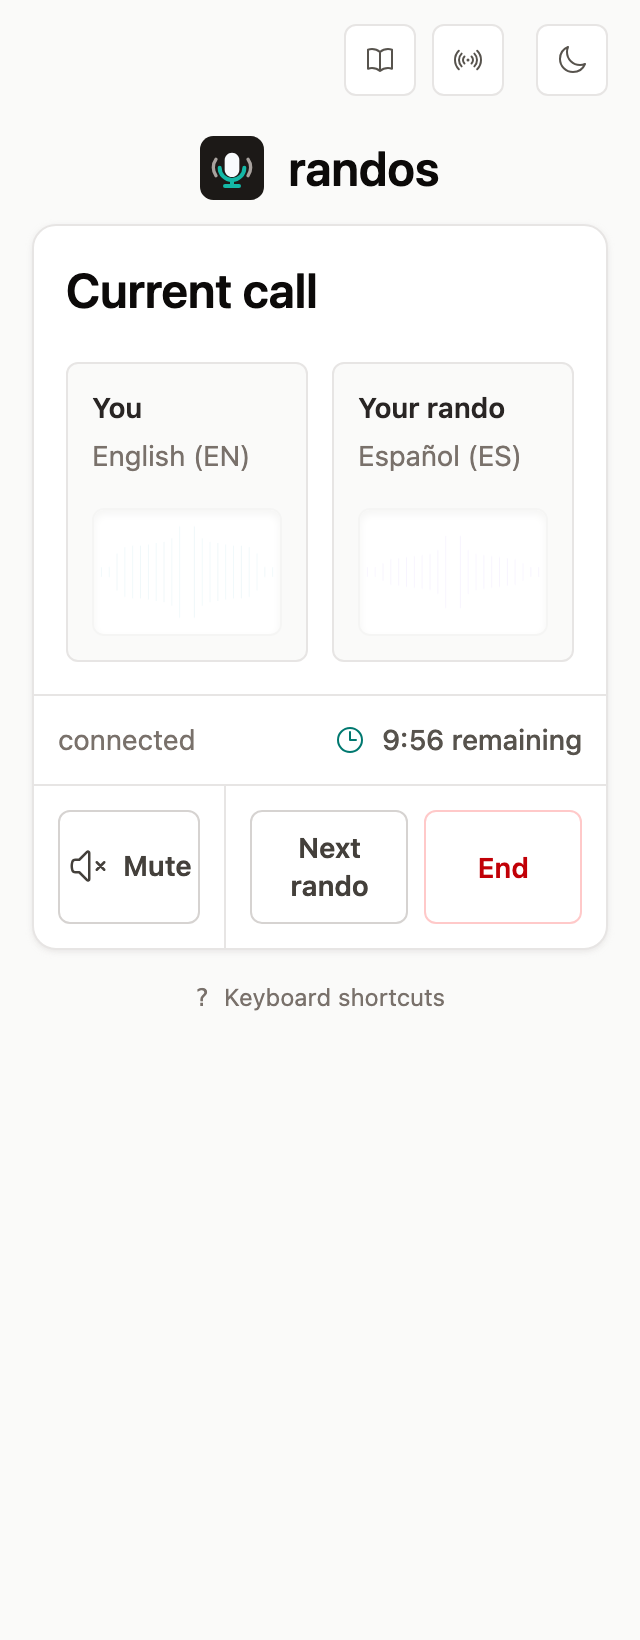
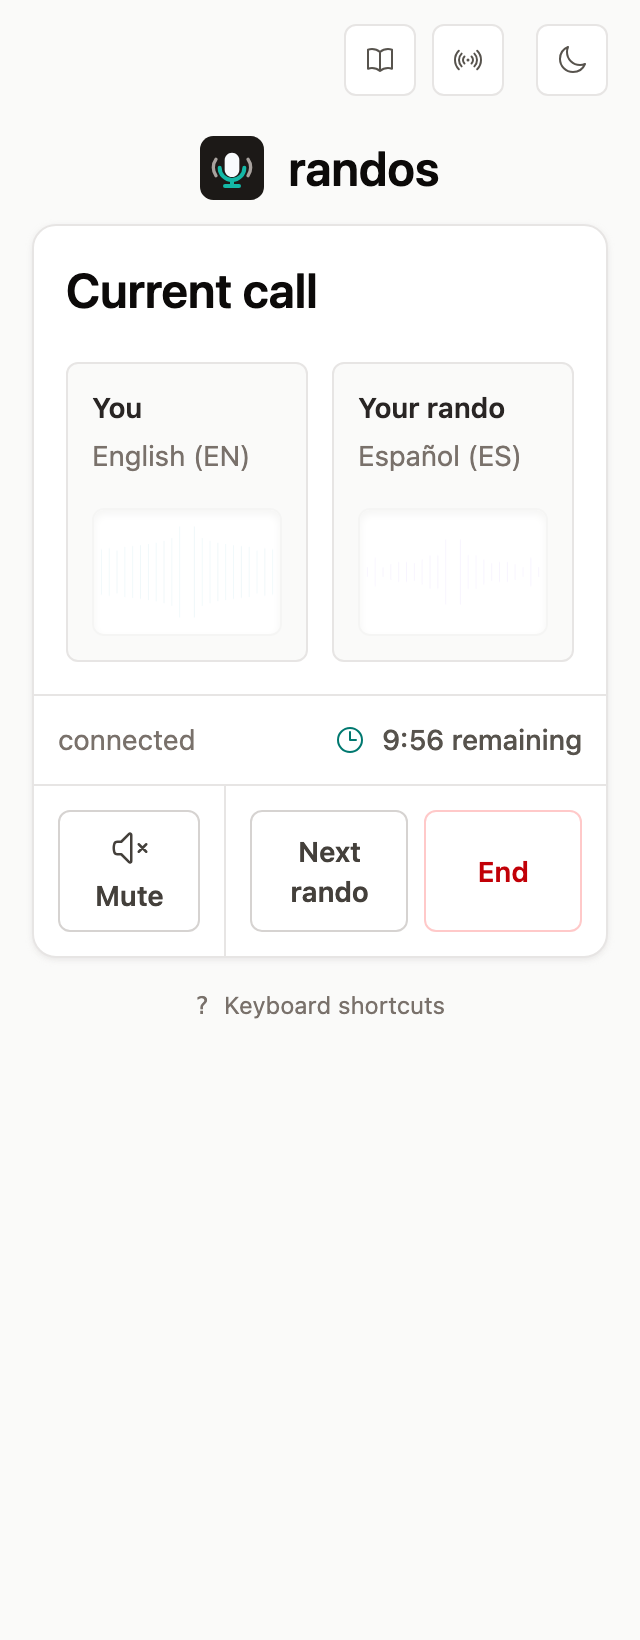
Prepare v0.11.1 maintenance release

Changed region(s): [[0.3125, 0.4976, 0.9062, 0.622], [0.0938, 0.4976, 0.3125, 0.5909]]

diff --git a/assets/css/app.css b/assets/css/app.css
@@ -173,6 +173,16 @@
   grid-template-columns: repeat(3, minmax(0, 1fr));
 }
 #conversation-card[data-ui-state="in_call"] #mute-button { height: 100%; }
+#conversation-card[data-ui-state="in_call"] :is(#mute-button, #next-rando-button, #end-call-button) {
+  min-width: 0;
+  overflow-wrap: anywhere;
+}
+@media (max-width: 639px) {
+  #conversation-card[data-ui-state="in_call"] #mute-button {
+    flex-direction: column;
+    gap: .25rem;
+  }
+}
 #conversation-card[data-ui-state="connecting"] {
   max-width: 35rem;
   grid-template-columns: repeat(2, minmax(0, 1fr));

diff --git a/docs/releases/v0.11.1-readiness.md b/docs/releases/v0.11.1-readiness.md
@@ -1,0 +1,51 @@
+# v0.11.1 release qualification
+
+The owner authorized v0.11.1 after reviewing the restrained mobile UI pass.
+Preparation is in progress; publication evidence will be recorded below.
+
+## Scope
+
+The delta from v0.11.0 includes mobile call presentation, the renderer's
+pulldown-cmark 0.13.6 advisory fix, TUI runtime dependency updates and isolated
+development-model/tooling maintenance. The model comparisons and retained
+COMET-compatible setuptools pin are recorded under
+[roadmap maintenance](../architecture/refactor_plan.md#deferred-decisions-and-maintenance).
+There are no new translated message keys, protocol obligations, call timers,
+media processors or privacy claims. Existing DSP/ABI/relay-policy evidence
+remains applicable.
+
+## Focused review
+
+The independent release advisor found a mobile label-overflow risk and one
+stale ringbuf version in the native README. A real-call experiment confirmed
+Mute/Unmute text escaping phone-width controls in multiple languages,
+including English Unmute at 320 px. The release adds a bounded wrapping fix
+and a regression check of text bounds, across all 20 locales, both mute
+states, light/dark themes and 320/390/1200 px widths. No translation model
+run or hand-filled catalog was needed.
+
+| Candidate | Decision | Reason |
+| --- | --- | --- |
+| Call/media policy owners | Leave | No ownership, timing or protocol change |
+| Shared waveform/media components | Leave | Existing seam remains useful |
+| Localized control regression | Merge | Browser smoke must check text inside controls, not just page overflow |
+| Renderer/model evidence | Link | Preserve provenance and comparisons in their authoritative guides |
+| Broad refactor | Leave | No demonstrated release benefit |
+
+README, development and self-hosting prose need no updates: installation,
+configuration, public controls and call semantics are unchanged. README
+screenshots are refreshed. The native dependency table now matches ringbuf 0.6.
+
+## Qualification
+
+- Local `just precommit` passed before the candidate commit.
+- All 240 real-call localized control cases passed after the wrapping fix.
+- `just screenshots` passed, including mobile control fit and exact physical
+  terminal redraw after dismissing the multilingual picker.
+- Independent follow-up review approved qualification; its suggested explicit
+  all-three-controls assertion is included in the regression test.
+- Prior TUI locale and DSP/ABI qualification is reused for unchanged UI,
+  translation catalogs and processor code; no new model run is necessary.
+
+Pending post-commit checks, native CI, clean-checkout packaging,
+production-image inspection, deployment, public archives and Homebrew.

diff --git a/clients/tui/native/README.md b/clients/tui/native/README.md
@@ -189,7 +189,7 @@ Each one must be justified here (purpose, license, whether it pulls in C);
 | --- | --- | --- | --- |
 | `cpal` 0.18 | Mic and speaker I/O | Apache-2.0 | Links the OS audio APIs (CoreAudio via `objc2`; ALSA via `alsa-sys` on Linux, which needs alsa-lib headers to build) |
 | `opus` 0.4 (+ `opusic-sys`) | Opus encode/decode, the codec browsers offer by default | MIT/Apache-2.0; libopus BSD-3-Clause | Yes: `opusic-sys` builds the reference libopus from bundled source and links it statically. Needs `cmake` at build time (pinned in `mise.toml`) |
-| `ringbuf` 0.5 | Lock-free SPSC rings between the real-time callbacks and the worker | MIT/Apache-2.0 | No |
+| `ringbuf` 0.6 | Lock-free SPSC rings between the real-time callbacks and the worker | MIT/Apache-2.0 | No |
 | `str0m` 0.24 (+ `str0m-proto`, `str0m-rust-crypto`, `is`) | WebRTC: ICE (`is`, **a patched copy in `vendor/is`**: a 4 s peer-request window instead of 15 s, so a dead path is noticed in ~4 s; `vendor/README.md`), DTLS, SRTP, RTP, SDP. Sans-IO (no threads, async, or callbacks), so the call is one plain loop we own. Built with `--no-default-features --features rust-crypto` | MIT/Apache-2.0 | **Yes, via AWS-LC** (corrected 2026-10-20): `rust-crypto` avoids OpenSSL, but `str0m-rust-crypto` turns on `dimpl`'s `rcgen` feature (DTLS certificate generation), which requires `aws-lc-rs`, so `aws-lc-sys` builds AWS-LC (C, with CMake) statically. Apache-2.0/ISC; passes `cargo deny`. Avoiding it needs an upstream change (rcgen on a RustCrypto backend) |
 | `serde` 1, `serde_json` 1 | The Port's JSON messages (the TUI side already uses Jason) | MIT/Apache-2.0 | No |
 | `rubato` 5 | Sample-rate conversion between a device's rate (e.g. 44.1 kHz Bluetooth) and Opus's 48 kHz; pulls in `audioadapter`, `realfft`/`rustfft`, `windowfunctions` | MIT/Apache-2.0 (deps MIT, Apache, Zlib) | No |

diff --git a/docs/releases/v0.11.1.md b/docs/releases/v0.11.1.md
@@ -1,0 +1,25 @@
+# randos v0.11.1
+
+A maintenance release with a more compact mobile call screen and updated
+terminal-client dependencies.
+
+- On phones, smaller branding and fewer repeated progress labels bring the
+  conversation and its controls higher on the screen. Both voices appear side
+  by side, with Mute, Next rando and End in one row.
+- Connection presentation is simpler, and End has clearer contrast in dark
+  mode. Long translated call-control labels wrap within their buttons,
+  including when switching between Mute and Unmute.
+- The terminal renderer updates pulldown-cmark to 0.13.6 for
+  RUSTSEC-2026-0433, while retaining randos' physical-redraw patch.
+- Terminal-client dependencies include ringbuf 0.6, realfft 3.5.1 and
+  Slipstream 1.3.0. Development and evaluation dependencies are also refreshed.
+
+Call timing, invitations, language matching and the participant protocol are
+unchanged. Voice masking stays local and off by default, with no new voice
+processors or models in the product.
+
+## Installation
+
+Run `brew upgrade wasichu/randos/randos`, or unpack the macOS arm64 or Linux
+x86_64 archive and run `bin/randos`. Existing settings remain compatible.
+The website update is deployed separately from the terminal archives.

diff --git a/docs/architecture/refactor_plan.md b/docs/architecture/refactor_plan.md
@@ -1,5 +1,12 @@
 # randos — current architecture and roadmap
 
+v0.11.1 preparation on 2026-11-06: the owner authorized a maintenance release.
+The independent packaging review prompted translated active-call text-bound
+checks and a bounded mobile label-wrap fix; no new strings, protocol or DSP
+changes. Versioned notes and qualification are tracked in
+[v0.11.1 readiness](../releases/v0.11.1-readiness.md). Existing model comparisons
+and unchanged media/privacy ownership remain applicable; defer broad refactors.
+
 Verified mobile call presentation on 2026-11-06 with `just precommit`,
 `just smoke`, `just tui-smoke` and `just screenshots`. The first UI refinement
 keeps the existing visual identity and server policy.
